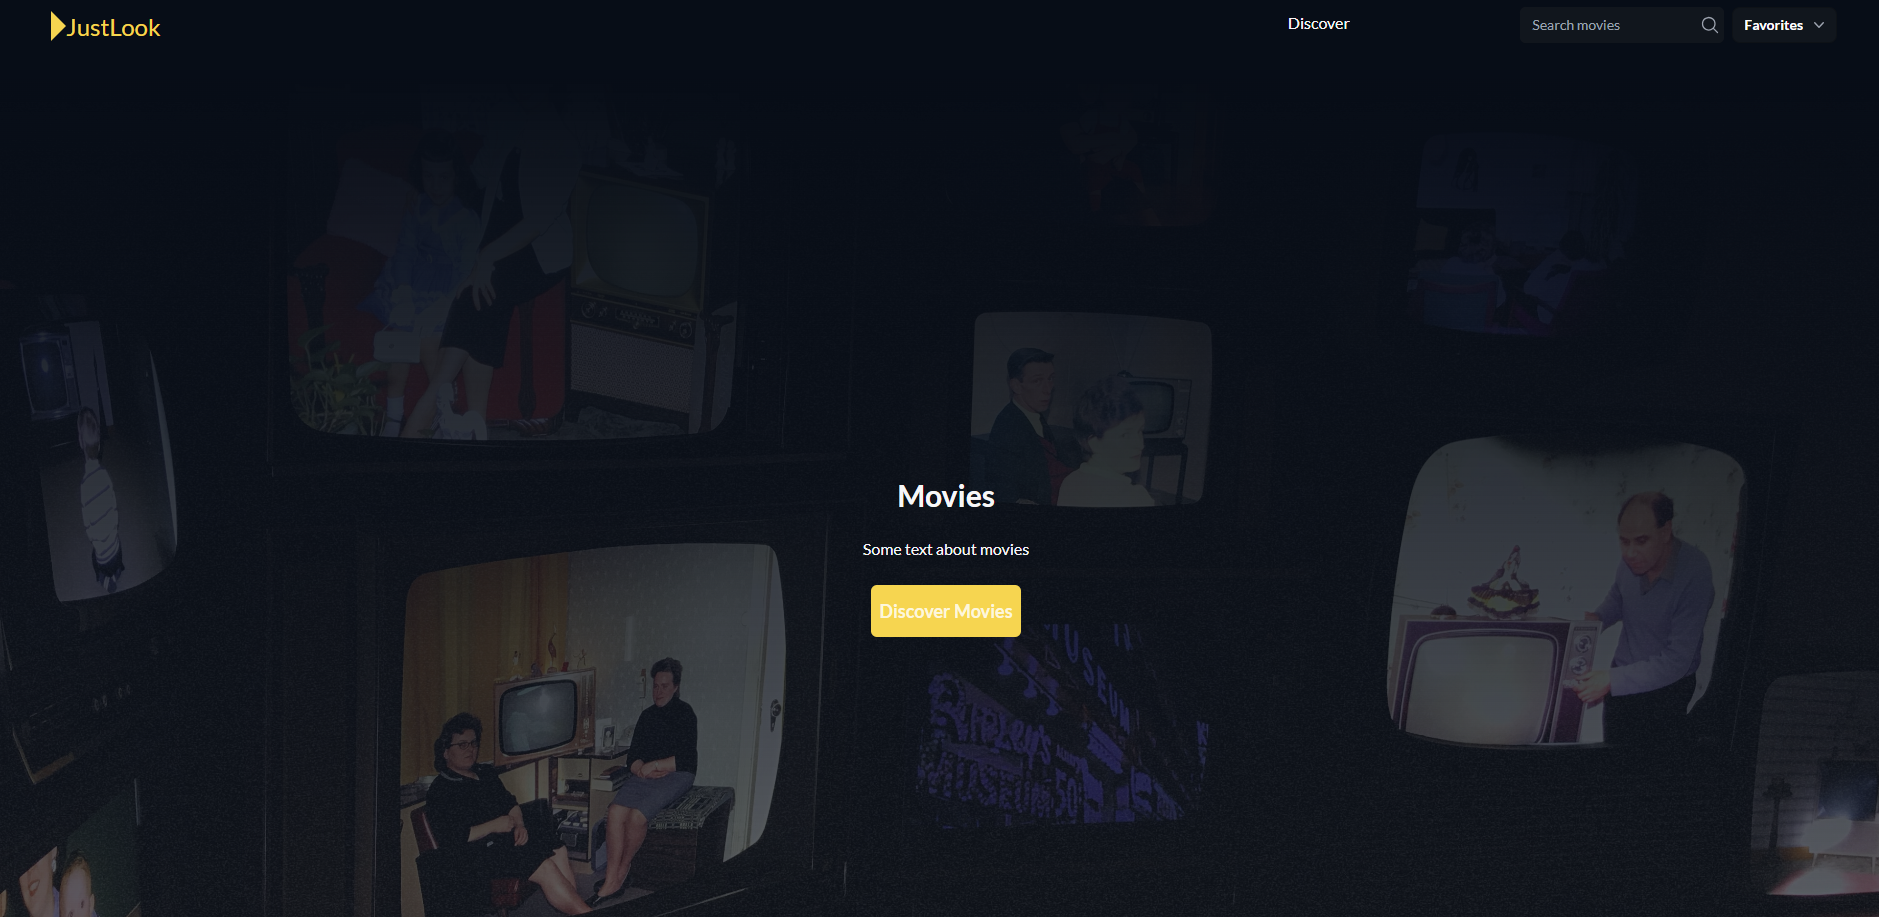
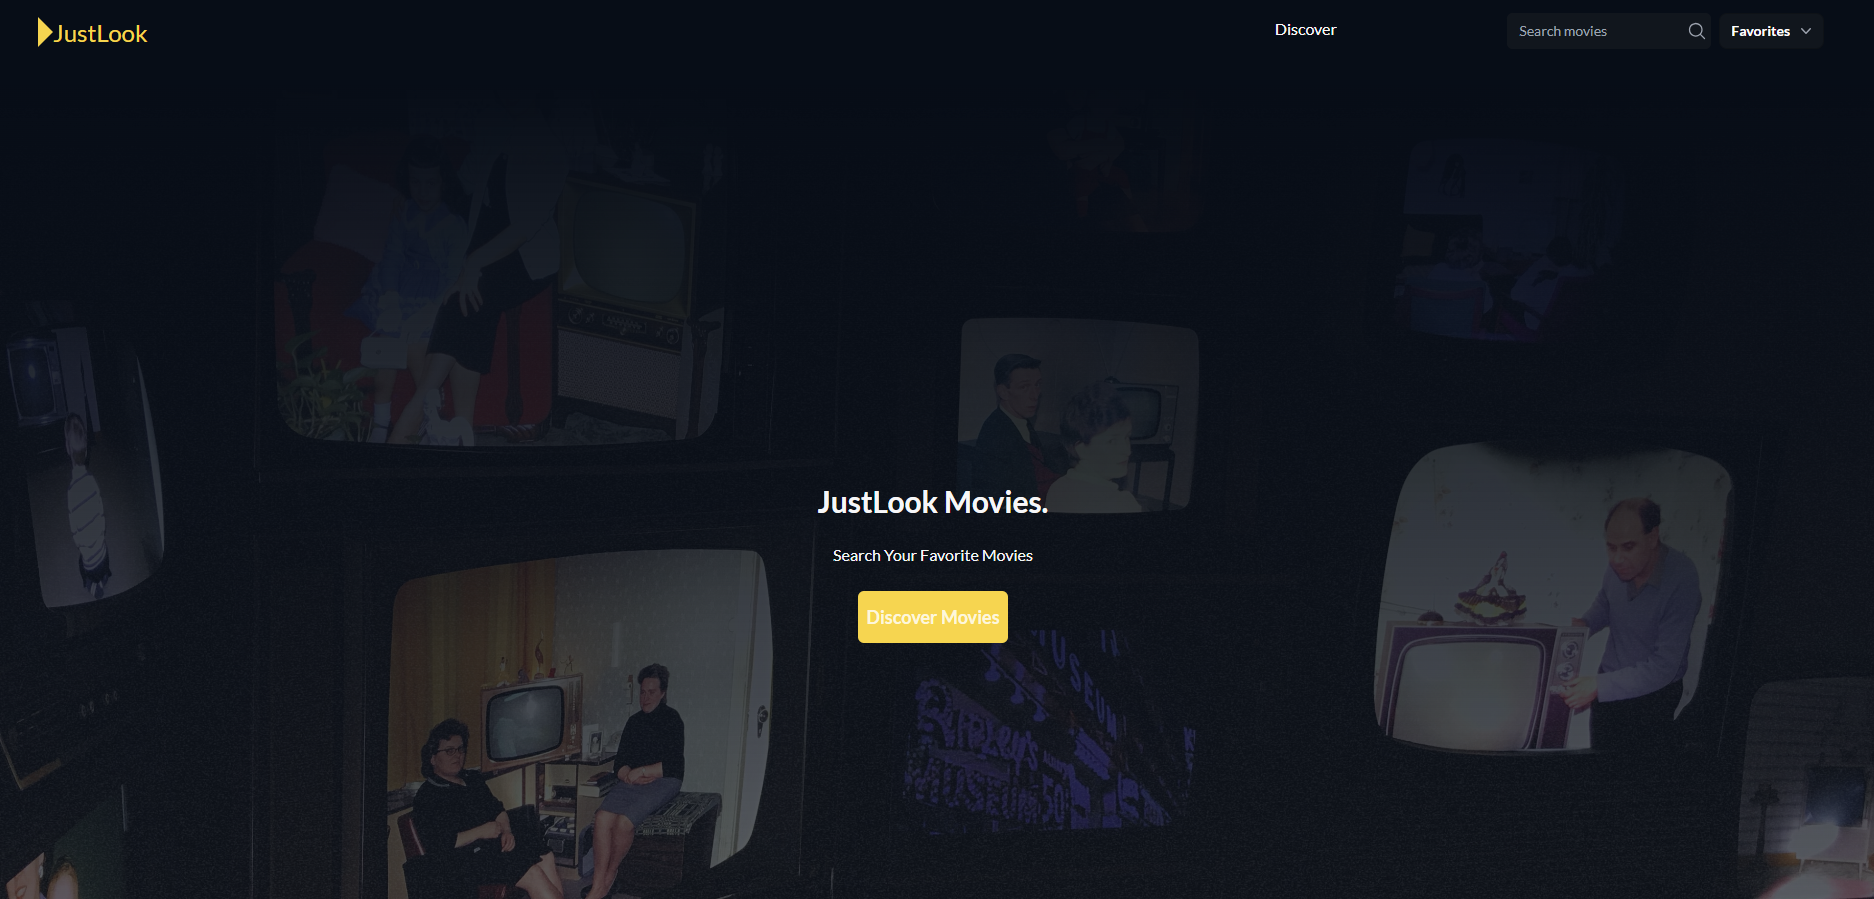
add to README.md and overall cleanup

diff --git a/public/index.html b/public/index.html
@@ -1,19 +1,20 @@
 <!doctype html>
 <html lang="en">
-  <head>
-    <meta charset="utf-8" />
-    <link rel="icon" href="%PUBLIC_URL%/favicon.ico" />
-    <link href="https://fonts.googleapis.com/css?family=Lato:400,700" rel="stylesheet" type="text/css" />
-    <meta name="viewport" content="width=device-width, initial-scale=1" />
-    <meta name="theme-color" content="#000000" />
-    <meta name="description" content="Web site created using create-react-app" />
-    <link rel="apple-touch-icon" href="%PUBLIC_URL%/logo192.png" />
-    <!--
+
+<head>
+  <meta charset="utf-8" />
+  <link rel="icon" href="%PUBLIC_URL%/favicon.ico" />
+  <link href="https://fonts.googleapis.com/css?family=Lato:400,700" rel="stylesheet" type="text/css" />
+  <meta name="viewport" content="width=device-width, initial-scale=1" />
+  <meta name="theme-color" content="#000000" />
+  <meta name="description" content="Web site created using create-react-app" />
+  <link rel="apple-touch-icon" href="%PUBLIC_URL%/logo192.png" />
+  <!--
       manifest.json provides metadata used when your web app is installed on a
       user's mobile device or desktop. See https://developers.google.com/web/fundamentals/web-app-manifest/
     -->
-    <link rel="manifest" href="%PUBLIC_URL%/manifest.json" />
-    <!--
+  <link rel="manifest" href="%PUBLIC_URL%/manifest.json" />
+  <!--
       Notice the use of %PUBLIC_URL% in the tags above.
       It will be replaced with the URL of the `public` folder during the build.
       Only files inside the `public` folder can be referenced from the HTML.
@@ -22,13 +23,13 @@
       work correctly both with client-side routing and a non-root public URL.
       Learn how to configure a non-root public URL by running `npm run build`.
     -->
-    <title>React App</title>
-  </head>
+  <title>JustLook</title>
+</head>
 
-  <body>
-    <noscript>You need to enable JavaScript to run this app.</noscript>
-    <div id="root"></div>
-    <!--
+<body>
+  <noscript>You need to enable JavaScript to run this app.</noscript>
+  <div id="root"></div>
+  <!--
       This HTML file is a template.
       If you open it directly in the browser, you will see an empty page.
 
@@ -38,5 +39,6 @@
       To begin the development, run `npm start` or `yarn start`.
       To create a production bundle, use `npm run build` or `yarn build`.
     -->
-  </body>
+</body>
+
 </html>

diff --git a/src/routes/Movies.tsx b/src/routes/Movies.tsx
@@ -12,7 +12,7 @@ export const Movies: React.FC = () => {
   const { popularMovies, isLoading } = usePopularMovies();
   const { nowPlaying } = useNowPlayingMovies();
   const { topRated } = useTopRatedMovies();
-  const { favorites, isFavorite, toggleFavorite } = useFavorites();
+  const { isFavorite, toggleFavorite } = useFavorites();
 
   const { moviesByGenre } = useSearchMovieByGenre(35);
 
@@ -42,7 +42,6 @@ export const Movies: React.FC = () => {
           data={nowPlaying}
           title="Trending now"
           status="Trending now"
-          currentFavorites={favorites}
           isFavorite={isFavorite}
           toggleFavorite={toggleFavorite}
           className="w-full"
@@ -63,7 +62,6 @@ export const Movies: React.FC = () => {
           data={topRated}
           title="Popular"
           status="Popular"
-          currentFavorites={favorites}
           isFavorite={isFavorite}
           toggleFavorite={toggleFavorite}
           className="w-full"
@@ -90,9 +88,7 @@ export const Movies: React.FC = () => {
       <MovieGrid
         toggleFavorite={toggleFavorite}
         isFavorite={isFavorite}
-        favorites={favorites}
         data={[{ results: topMovies }, { results: topNowPlaying }, { results: topPopularMovies }]}
-        currentFavorites={[]}
         backdrop={false}
         title="Top rated"
         className="mb-8"
@@ -107,7 +103,6 @@ export const Movies: React.FC = () => {
           data={moviesByGenre}
           toggleFavorite={toggleFavorite}
           isFavorite={isFavorite}
-          currentFavorites={favorites}
           className="m-0 mb-6 p-0"
           cardClassName="md:h-72 h-56"
           backdrop={false}
@@ -131,7 +126,6 @@ export const Movies: React.FC = () => {
           data={popularMovies}
           toggleFavorite={toggleFavorite}
           isFavorite={isFavorite}
-          currentFavorites={favorites}
           className="m-0 mb-6 p-0"
           cardClassName="h-56 md:h-72"
           backdrop={false}

diff --git a/src/routes/Home.tsx b/src/routes/Home.tsx
@@ -7,8 +7,8 @@ export const Home = () => {
     <div className="bg-footer relative h-screen w-full bg-cover bg-center bg-no-repeat !px-0">
       <div className="absolute inset-0 mx-auto h-full w-full transform bg-gradient-to-b from-common-base/100 to-common-base/60" />
       <div className="flex h-full w-full flex-col items-center justify-center gap-6">
-        <h1 className="z-50 text-3xl font-bold ">Movies</h1>
-        <p className="z-50 ">Some text about movies</p>
+        <h1 className="z-50 text-3xl font-bold ">JustLook Movies.</h1>
+        <p className="z-50 ">Search Your Favorite Movies</p>
         <div className="z-50 rounded-md bg-common-yellow py-3 hover:bg-common-yellow/80 ">
           <Link to="/movies" className="z-50  p-2 text-lg font-semibold text-white/80 hover:text-white">
             Discover Movies

diff --git a/src/components/MovieGrid.tsx b/src/components/MovieGrid.tsx
@@ -19,7 +19,6 @@ interface MovieGridProps extends SliderProps {
 
 export const MovieGrid: React.FC<MovieGridProps> = ({
   data,
-  currentFavorites,
   className,
   cardClassName,
   title,
@@ -60,7 +59,6 @@ export const MovieGrid: React.FC<MovieGridProps> = ({
                 poster={movie.movie.poster_path}
                 isFavorite={isFavorite}
                 toggleFavorite={toggleFavorite}
-                currentFavorites={currentFavorites}
                 className={cx('h-32 w-1/2 md:h-full md:w-full', cardClassName)}
                 overview={movie.movie.overview}
                 backdrop={backdrop}

diff --git a/src/components/Slider.tsx b/src/components/Slider.tsx
@@ -66,7 +66,6 @@ const SlideButton = ({ direction }: { direction: string }) => {
 
 export const Slider: React.FC<SliderProps> = ({
   data,
-  currentFavorites,
   slidesPerView,
   className,
   status,
@@ -102,7 +101,6 @@ export const Slider: React.FC<SliderProps> = ({
               poster={movie.poster_path}
               isFavorite={isFavorite}
               toggleFavorite={toggleFavorite}
-              currentFavorites={currentFavorites}
               className={cx('h-64', cardClassName)}
               overview={movie.overview}
               backdrop={backdrop}

diff --git a/src/types/slider.ts b/src/types/slider.ts
@@ -3,9 +3,7 @@ import { MovieItem } from 'types';
 export interface SliderProps {
   data: any;
   title?: string;
-  favorites?: any;
   slidesPerView?: number;
-  currentFavorites: any[];
   className?: string;
   cardClassName?: string;
   backdrop: boolean;

diff --git a/src/types/card.ts b/src/types/card.ts
@@ -5,7 +5,6 @@ export interface CardProps {
   title: string;
   status: string | number;
   poster: string;
-  currentFavorites: any[];
   release_date?: string;
   vote_average?: number;
   className?: string;

diff --git a/README.md b/README.md
@@ -26,6 +26,28 @@ JustLook is a movie app that allows users to discover and explore movies from TM
 - Local Storage: Used for storing favorite movies on the user's device.
 - Tailwind CSS: A utility-first CSS framework for styling.
 
+## Building a Docker Image
+
+You can also run the JustLook app in a Docker container. To do this, follow these steps:
+Make sure you have Docker installed on your machine.
+Clone the repository to your local machine if you haven't already.
+
+- Navigate to the project directory:
+
+  ```
+      cd JustLook
+  ```
+
+- Build the Docker image using the provided Dockerfile:
+
+  ```
+      docker build --build-arg ARG_REACT_APP_MOVIEDB_API_KEY={your_api_key} -t justlook-app .
+  ```
+
+## Deployed Site
+
+You could also visit the deployed site at https://justlook.netlify.app/
+
 ## Acknowledgments
 
 Thanks to TMDB for providing the movie data.
